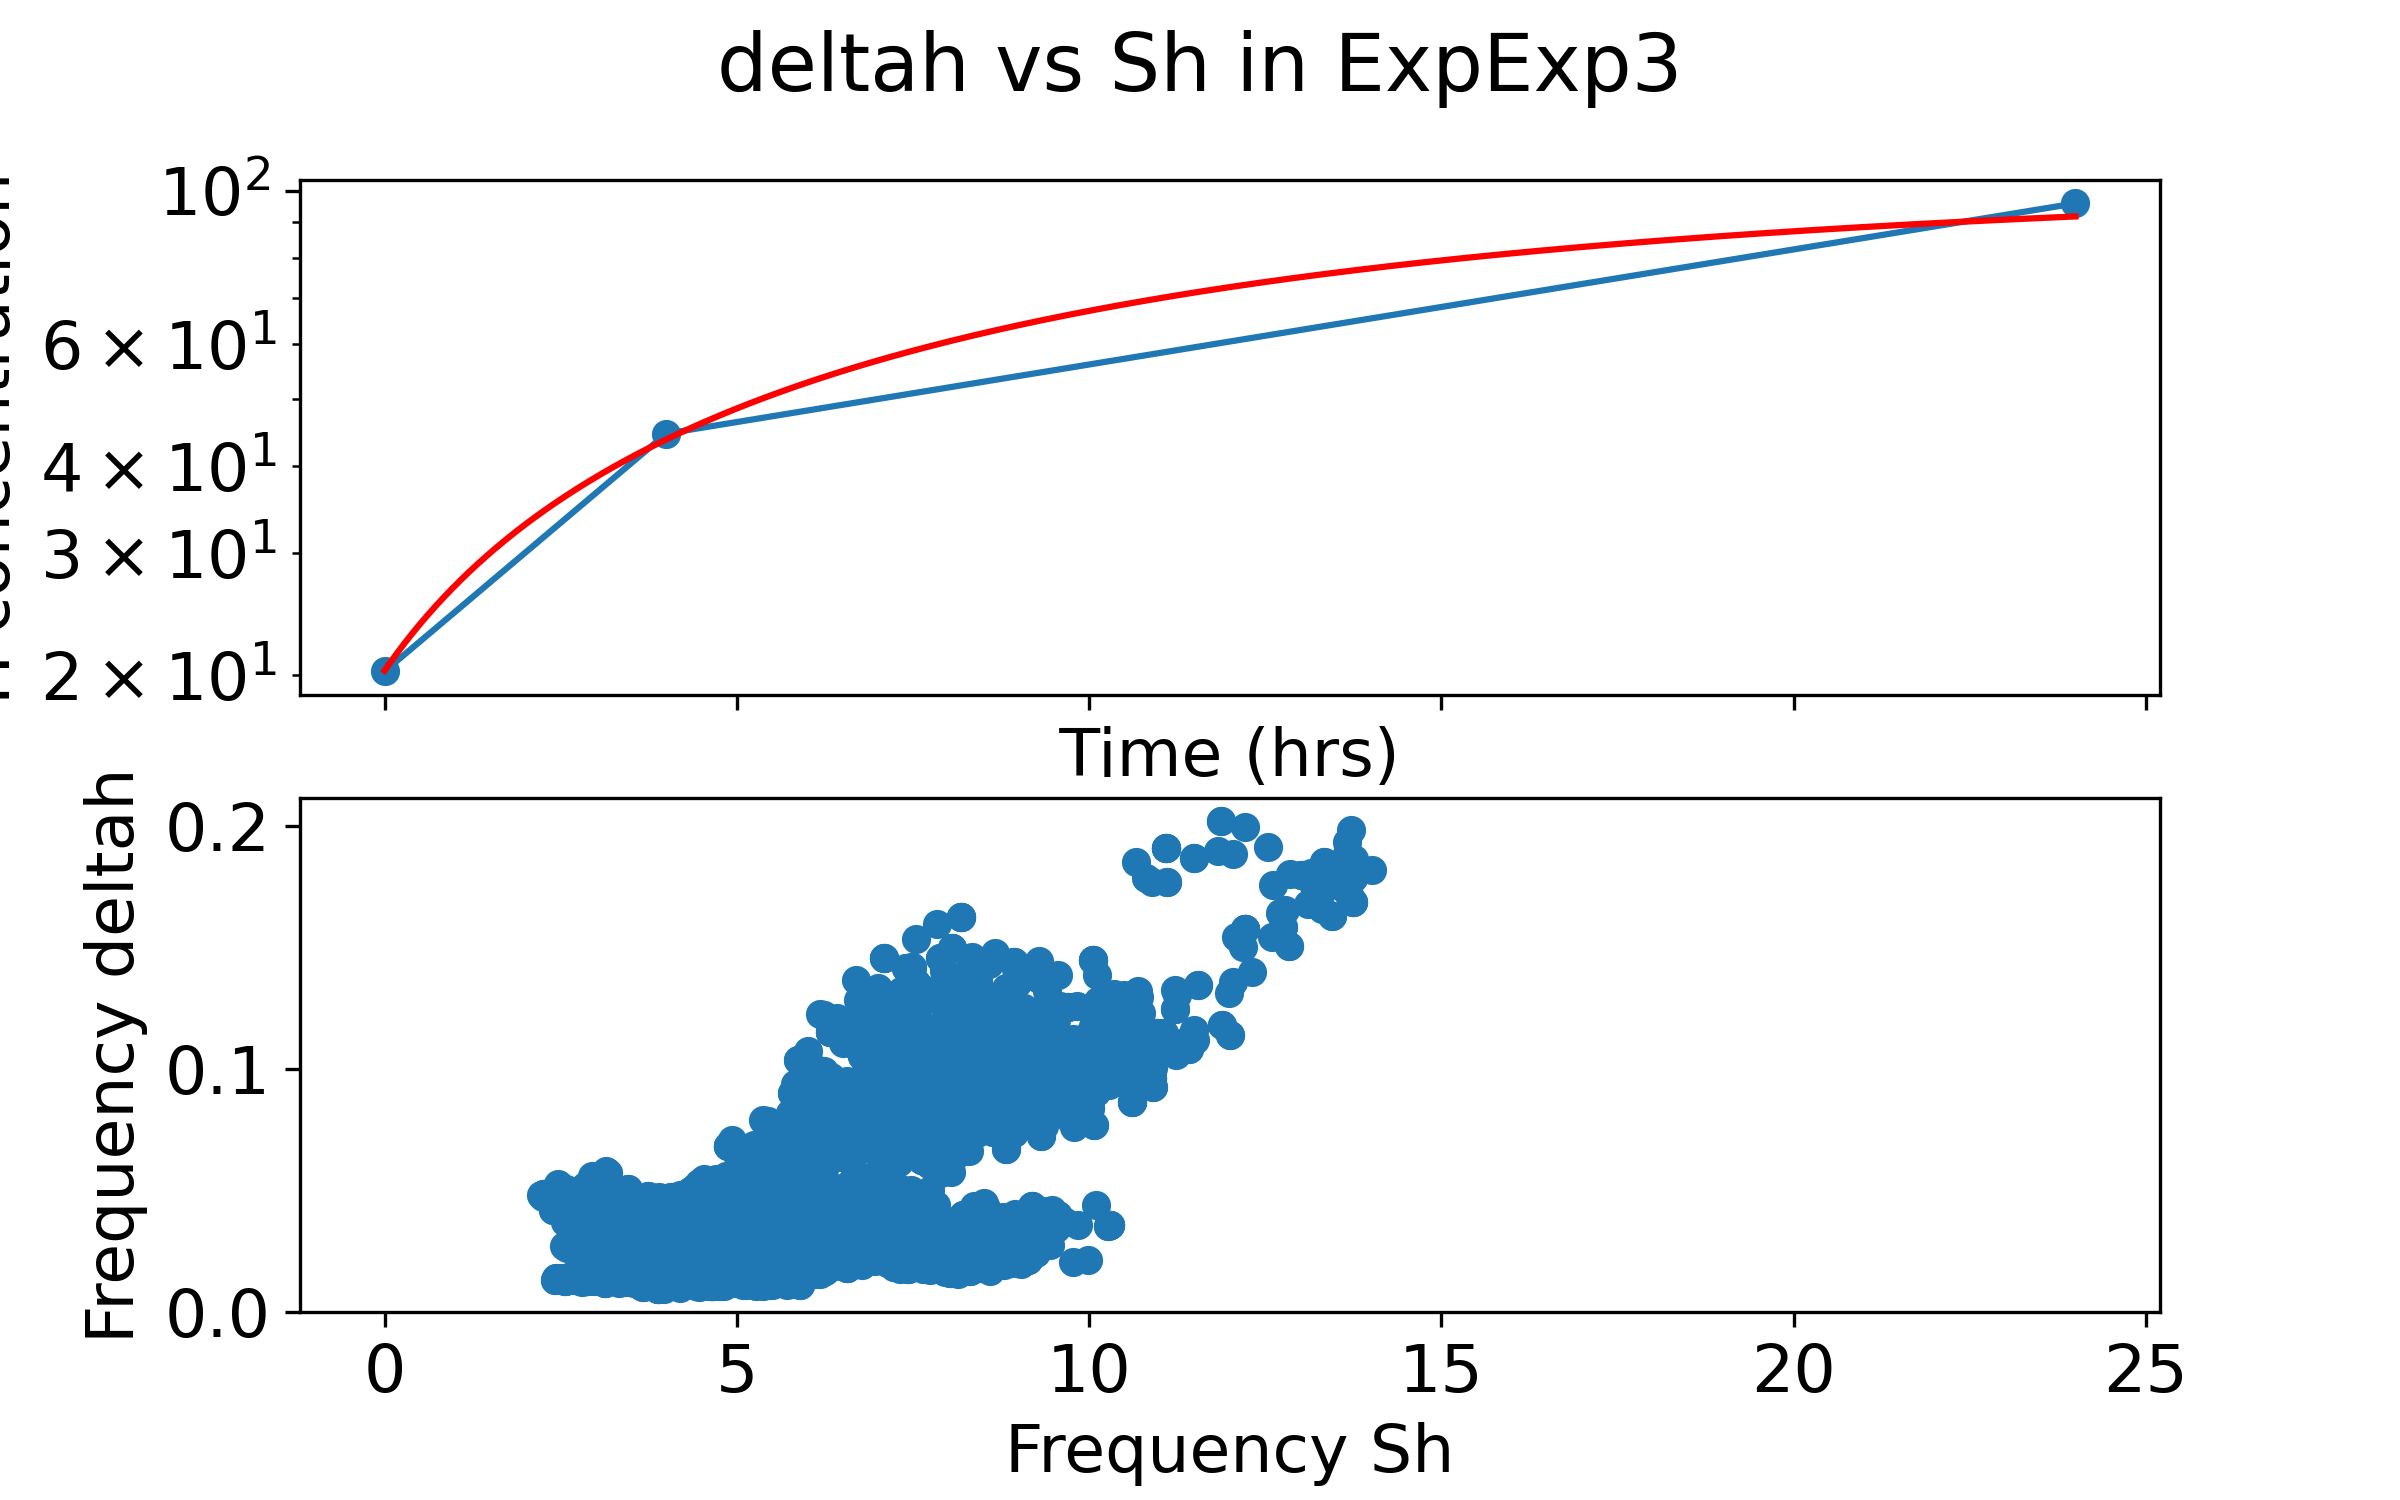
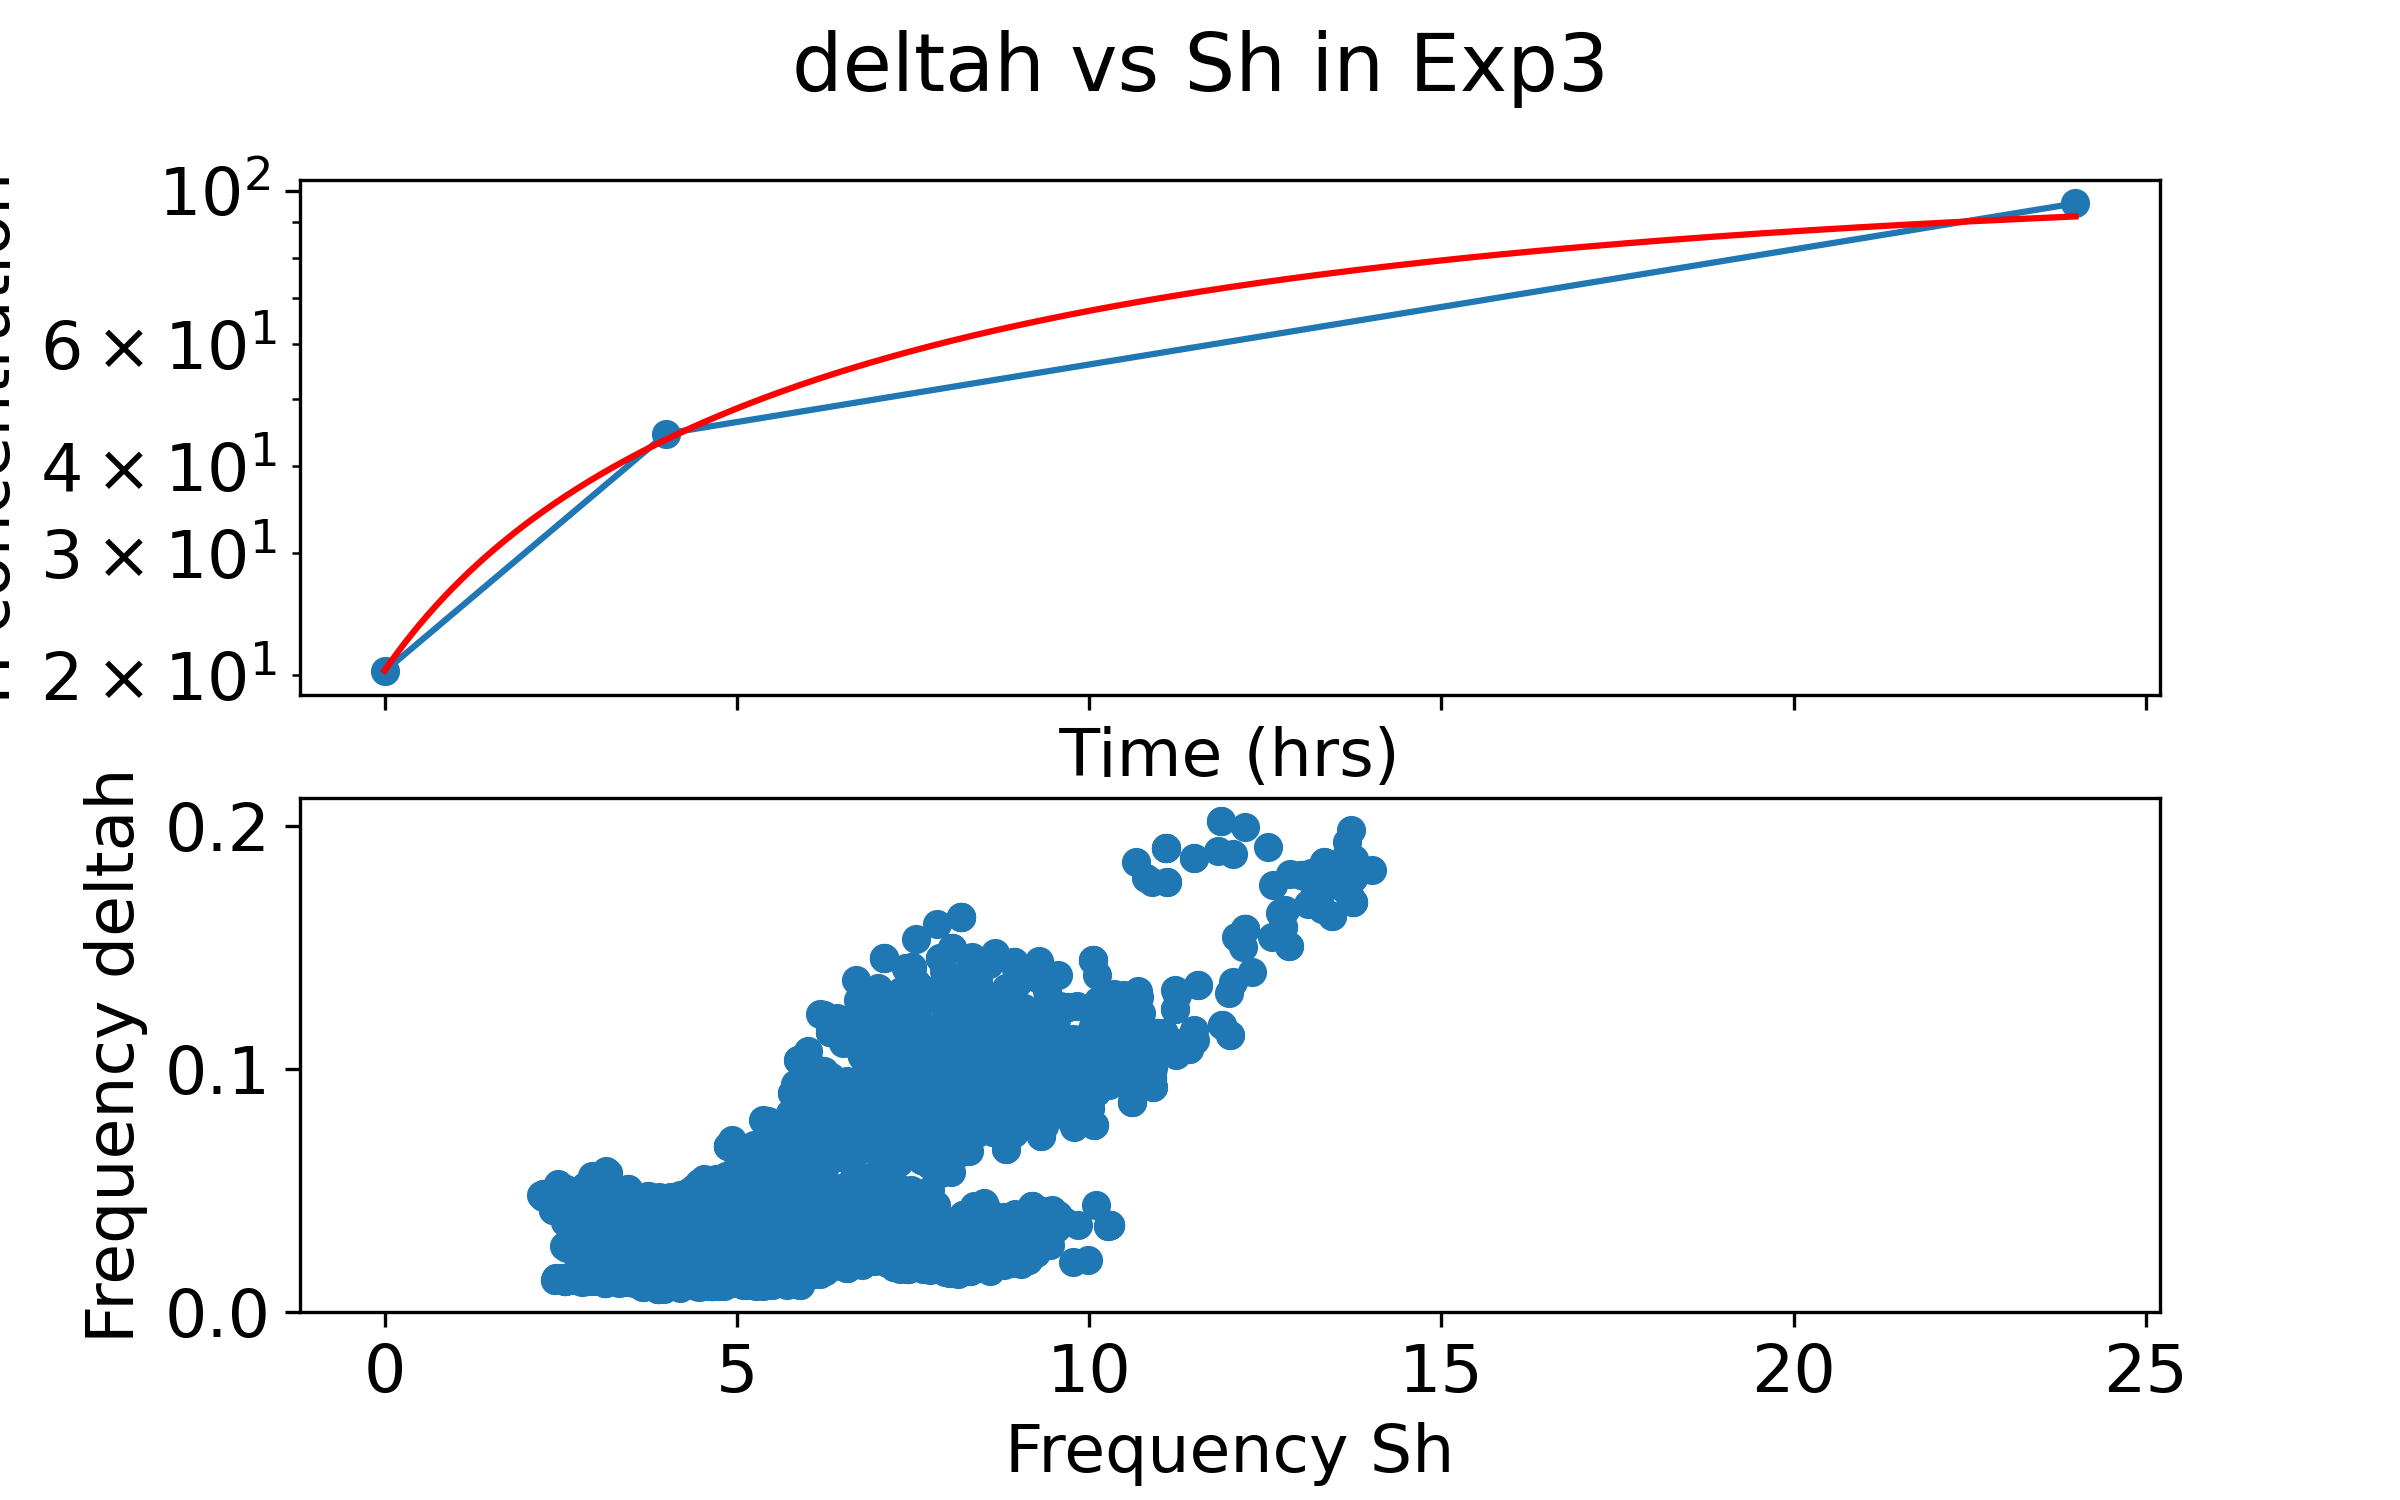
media production

Changed region(s): [[0.2812, 0.0, 0.7188, 0.0613]]

diff --git a/src/model_AMP.py b/src/model_AMP.py
@@ -112,10 +112,14 @@ def get_residuals(self):
 
 
 #set up figures to populate from loop 
+fig1,ax1 = plt.subplots(nexps,2,figsize=[10,12]) #plot creation and config 
+fig1.suptitle('AMP-A Dynamics') #full title config
 
-fig3,ax3 = plt.subplots(nexps,3,figsize=[20,14]) #plot creation and config 
-fig3.suptitle('Abiotic HOOH Model for AMP-A') #full title config
+fig2,ax2 = plt.subplots(nexps,3,figsize=[10,12]) #plot creation and config 
+fig2.suptitle('AMP-A Statistics') #full title config
 
+fig3,ax3 = plt.subplots(nexps,3,figsize=[16,8]) #plot creation and config 
+fig3.suptitle('AMP-A abiotic model dynamics and parameters') #full title config
 
 #####################################################
 # Set up large loop for going through all exps in DF
@@ -163,62 +167,35 @@ for (e,ne) in zip(exps,range(nexps)):  #looping through each exp with number
 #########################################################
 
 # Set up graph for Dynamics and param histograms
-    fig1,ax1 = plt.subplots(2,1,sharex=True, figsize=[8,5])  #making fig for param v param graphing 
-    fig1.suptitle('deltah vs Sh in Exp'+ str(e))
-    ax1[0].set_ylabel('HOOH Concentration nM/mL')
-    ax1[0].set_xlabel(' Time (hrs) ')
-    ax1[0].semilogy()
-    l1 = ax1[0].legend(loc = 'best')
-    l1.draw_frame(False)
-    ax1[1].set_xlabel('Frequency Sh')
-    ax1[0].set_ylabel('H concentration')
-    ax1[1].set_ylabel('Frequency deltah')
 
-    #graphing each assay's parameters against each other 
-    ax1[0].plot(df0.time,df0.abundance, marker='o',label = 'AMP data ' + str(e) )
-    ax1[0].plot(mod0.time,mod0['H'],c='r',lw=1.5,label=' model best fit')
-    ax1[1].scatter((posteriors0.Sh),(posteriors0.deltah))
-    fig1.savefig('../figures/AMP_'+str(e)+'_params.png')
+    ax1[ne,0].plot(df0.time,df0.abundance, marker='o',label = 'AMP data ' + str(e) ) #data of 0 H assay
+    ax1[ne,0].plot(mod0.time,mod0['H'],c='r',lw=1.5,label=' Model best fit') #best model fit of 0 H assay
+    plot_uncertainty(ax1[ne,0],a0,posteriors0,100) #plotting 100 itterations of model search for 0 H assay 
+    ax1[1,0].set_ylabel('HOOH Concentration nM/mL')
+    ax1[(ne-1),0].set_xlabel(' Time (hrs) ')
+    ax1[ne,0].semilogy()
+    l1 = ax3[ne,0].legend(loc = 'upper left')
+    l1.draw_frame(False)
+    ax1[ne,1].scatter((posteriors0.Sh),(posteriors0.deltah))
     
-    #################################
-    #graphing logged parameter values
-    ##################################
-    #crating and config of fig 
-    fig2,ax2 = plt.subplots(2,1,sharex=True,figsize=[8,5]) #make plot
-    fig2.suptitle('Trace plots for '+ str(e)) #set main title 
-    fig2.subplots_adjust(right=0.90, wspace = 0.25, top = 0.85) #shift white space for better fig view
-    fig2.supxlabel('Model Iteration') #set overall x title 
-    ax2[0].set_title('deltah')
-    ax2[0].set_ylabel('log deltah')
-    ax2[1].set_title('Sh ')
-    ax2[1].set_ylabel('log Sh')
-    #graphing iteration number vs parameter numbert logged 
-    ax2[1].scatter(posteriors0.iteration,np.log(posteriors0.Sh))
-    ax2[0].scatter(posteriors0.iteration,np.log(posteriors0.deltah))
-    
-    fig2.savefig('../figures/AMP_'+str(e)+'_Trace.png')
     
     #########################################
-    #graphing Residuals of best model vs data 
+    #graphing Residuals and Trace plots 
     ##########################################
 
-    #making and confing of residuals plot
-    fig4,ax4 = plt.subplots(2,1,sharex = True,figsize=[8,5])
-    fig4.suptitle('Residuals vs Fit Value ')
-    fig4.supylabel('Model Value (H)')
-    fig4.supxlabel('Residual')
-
-    #config legends for data differentialtion 
-    l4 = ax4[0].legend()
-    l5 = ax4[1].legend()
-    l4.draw_frame(False)
-    l5.draw_frame(False)
-
-    #plotting residual function output residual and abundance columns 
-    ax4[0].scatter(a0res['res'], a0res['abundance'],label = '0 H') #where )
-    fig4.savefig('../figures/AMP_'+str(e)+'_residuals.png')
-
-    #graph large fig of all runs together 
+    ax2[ne,0].set_title('Residuals')
+    #ax2[ne,0].set_ylabel('log deltah')
+    ax2[ne,1].set_title('Sh ')
+    ax2[ne,1].set_ylabel('log Sh')
+    ax2[ne,0].set_ylabel('HOOH Concentration nM/mL')
+    #graphing iteration number vs parameter numbert logged 
+    ax2[ne,0].scatter(a0res['res'], a0res['abundance'],label = '0 H') 
+    ax2[ne,1].scatter(posteriors0.iteration,np.log(posteriors0.Sh))
+    ax2[ne,2].scatter(posteriors0.iteration,np.log(posteriors0.deltah))
+    
+ #########################################
+ #graphing dynamics and paramter histograms 
+ ##########################################
     ax3[ne,0].plot(df0.time,df0.abundance, marker='o',label = 'AMP data ' + str(e) ) #data of 0 H assay
     ax3[ne,0].plot(mod0.time,mod0['H'],c='r',lw=1.5,label=' Model best fit') #best model fit of 0 H assay
     plot_uncertainty(ax3[ne,0],a0,posteriors0,100) #plotting 100 itterations of model search for 0 H assay 
@@ -235,14 +212,17 @@ for (e,ne) in zip(exps,range(nexps)):  #looping through each exp with number
 plt.show()
 
 
-fig4.savefig('../figures/AMP_all_dynamics.png')
+fig1.savefig('../figures/AMP_all_params.png')
+fig2.savefig('../figures/AMP_all_stats.png')
+fig3.savefig('../figures/AMP_all_dynamics.png')
 
 
 
 # 'program finished' flag
-print('\n Done my guy \n')
-
+print('\n ~~~****~~~****~~~ \n')
+print(' Done my guy ')
+print('\n ~~~****~~~****~~~ \n')
 print('\n Im free Im free! Im done calculating!' )
-
+print('\n ~~~****~~~****~~~ \n')
 
 
